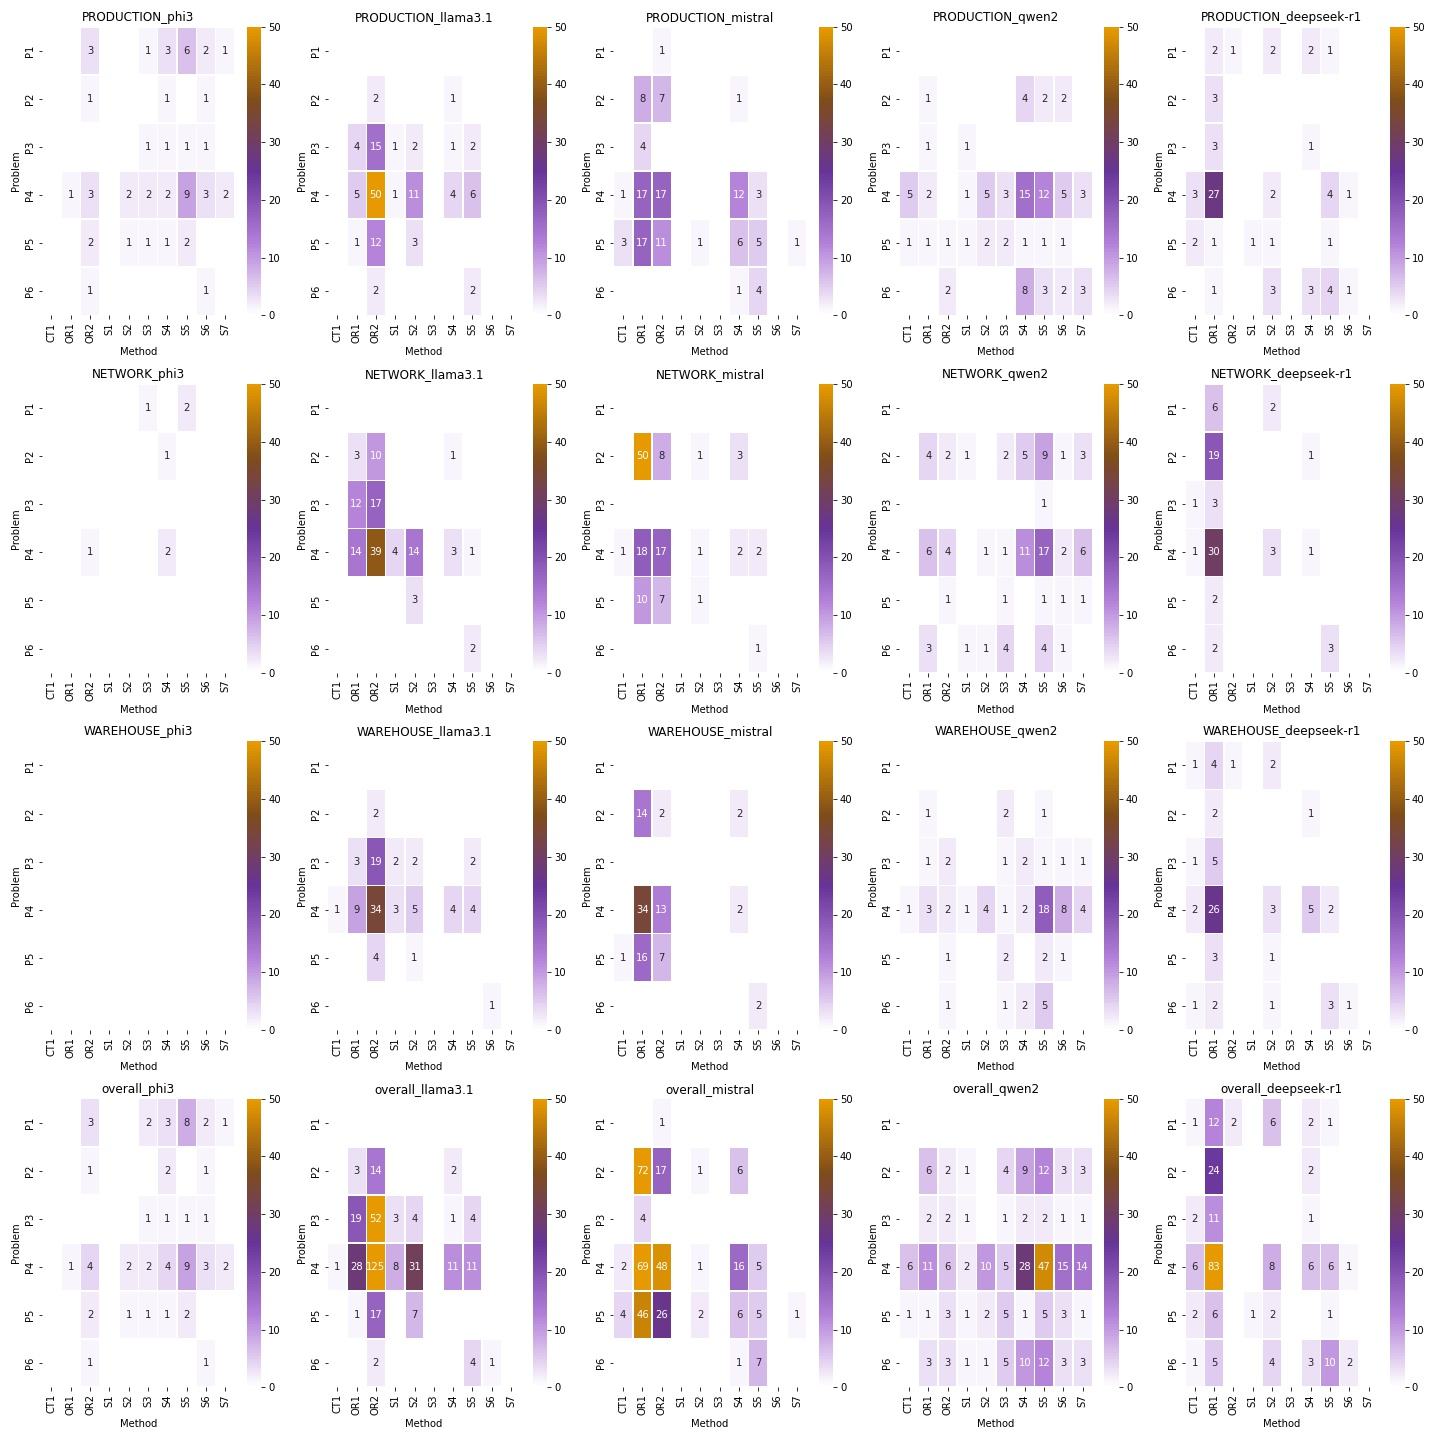
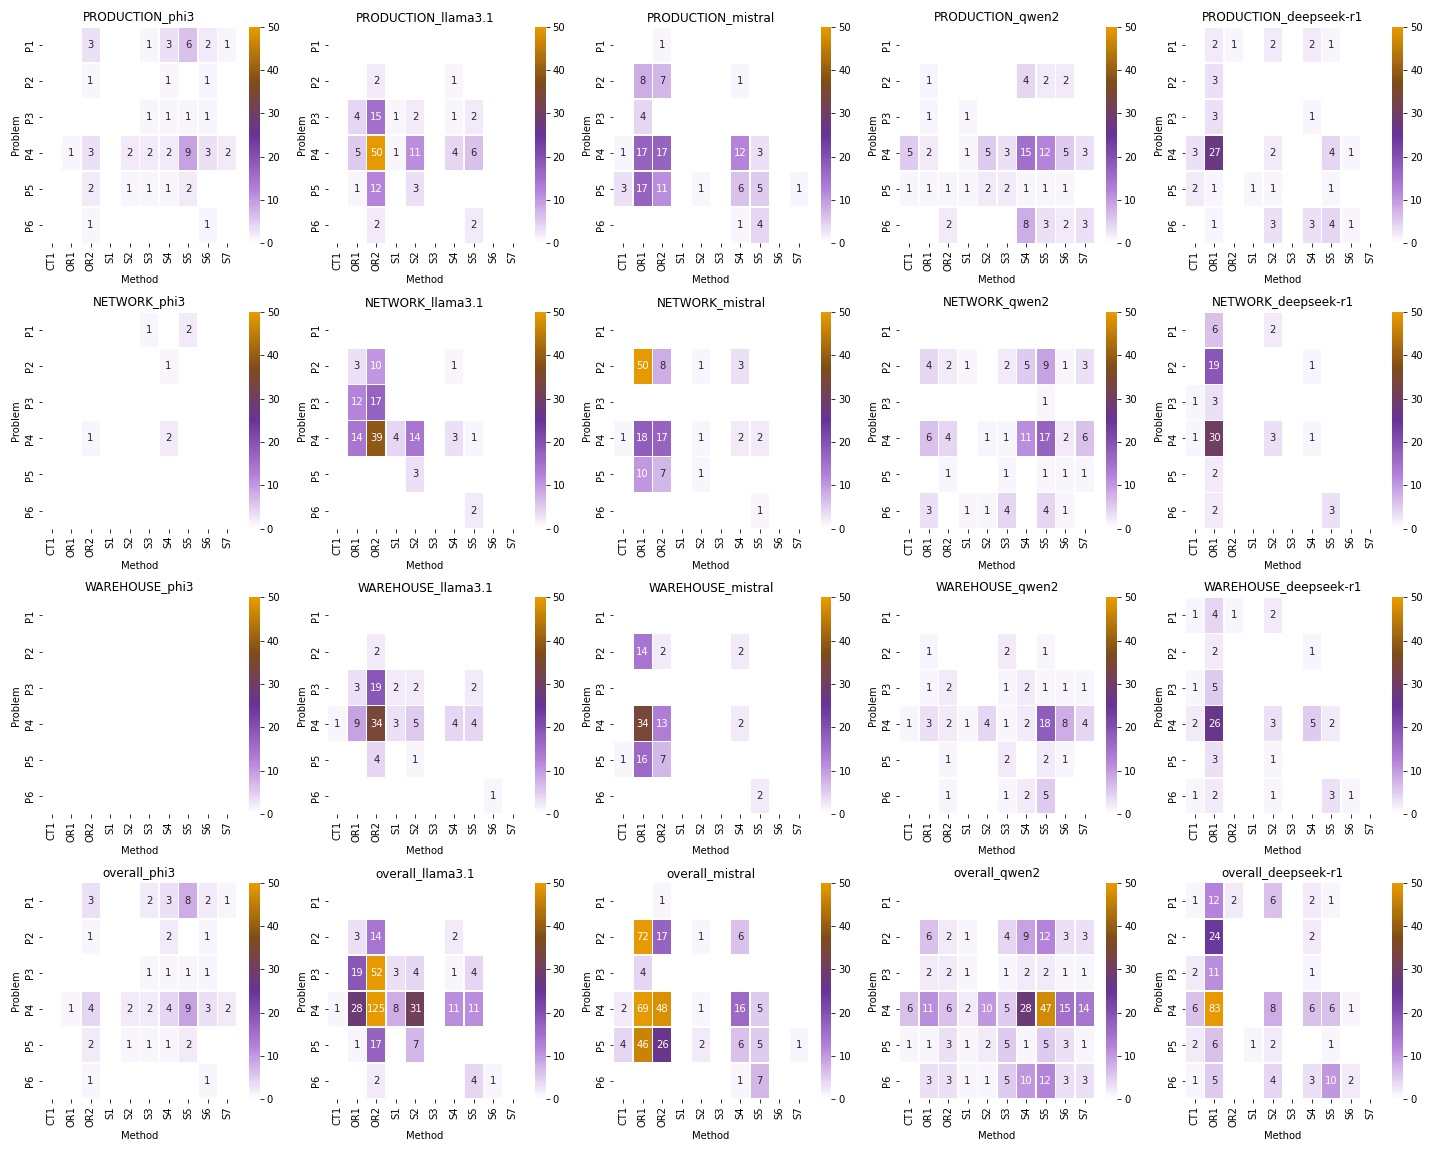
add Analytics Families graph

diff --git a/src/3. analyse_results.py b/src/3. analyse_results.py
@@ -48,7 +48,7 @@ def createHeatmap(D_scs: pd.DataFrame,
 
     # Ordinamento delle righe
     D_scs_square['indiceSorting'] = [D_scs_square.index[i][1:] for i in range(len(D_scs_square))]
-    D_scs_square['indiceSorting'] = D_scs_square['indiceSorting'].astype(float)
+    D_scs_square['indiceSorting'] = D_scs_square['indiceSorting'].astype(str)
     D_scs_square.sort_values(by='indiceSorting', inplace=True)
     D_scs_square.drop(columns=['indiceSorting'], inplace=True)
 
@@ -113,7 +113,7 @@ numLLMs = len(scs) + 1  # Una riga in più per la heatmap "overall"
 numModels = len(dict_column_models)
 
 # Creazione della figura con subplots
-fig, axs = plt.subplots(numLLMs, numModels, figsize=(20, 20))
+fig, axs = plt.subplots(numLLMs, numModels, figsize=(20, 16))
 
 # Se la matrice axs ha una sola colonna, trasformiamola in un array 2D per evitare errori
 if numModels == 1:
@@ -162,57 +162,35 @@ plt.savefig("../data/output/_master_heatmap.jpg")
 plt.show()
 
 
-
-
-# %% Vote and aggregate 
-'''
-# Seleziona le colonne di interesse
-colonne = [
-    'problem_classification_phi3_cleaned',
-    'problem_classification_llama3.1_cleaned',
-    'problem_classification_mistral_cleaned'
-    #,'problem_classification_qwen2_cleaned'
-]
-
-# Unisci tutte le colonne in una "long format" dataframe
-df_long = df_analysis.melt(id_vars=[], value_vars=colonne, var_name='source', value_name='classification')
-
-# Aggiungi un ID riga per mantenere la tracciabilità delle righe originali
-df_long['row_id'] = df_analysis.index
-
-    # Crea la tabella pivot che conta le occorrenze per riga e classificazione
-    df_pivot = df_long.pivot_table(index='row_id', columns='classification', aggfunc='size', fill_value=0)
-
-    # Unisci i risultati della pivot con il dataframe originale, mantenendo l'ordine delle righe
-    df_finale = df.join(df_pivot, on=df.index)
-
-    return df_finale
-
-# Chiamare la funzione con il percorso del file
-file_path = '/path_to_your_file/export_cleaned.xlsx'
-df_modificato = conta_valori_colonne_con_pivot(file_path)
-
-# Visualizzare il dataframe con le nuove colonne
-print(df_modificato.head())
-'''
 # %% create timeline
 
 df_analysis ['Decade'] = df_analysis['Year']//10*10
 
 # correct the column "method" to use the new overall vote column
-def add_unique_columns(df, col1, col2, col3):
-    # Selezioniamo le quattro colonne iniziali
-    colonne_iniziali = df[[col1, col2, col3]]
+def add_unique_columns(df, *columns):
+    """
+    Modifica la funzione per accettare un numero variabile di colonne.
+    Crea nuove colonne per ogni valore unico presente nelle colonne selezionate.
+    
+    :param df: DataFrame di input
+    :param columns: Nomi delle colonne da analizzare
+    :return: DataFrame con nuove colonne per ciascun valore unico
+    """
+    if not columns:
+        raise ValueError("Devi specificare almeno una colonna.")
 
-    # Troviamo tutti i valori unici nelle quattro colonne
-    valori_unici = pd.unique(colonne_iniziali.values.ravel())
+    # Seleziona le colonne specificate
+    colonne_selezionate = df[list(columns)]
 
-    # Per ogni valore unico, creiamo una nuova colonna nel dataframe
+    # Trova tutti i valori unici nelle colonne selezionate
+    valori_unici = pd.unique(colonne_selezionate.values.ravel())
+
+    # Crea una nuova colonna per ogni valore unico
     for valore in valori_unici:
-        # La nuova colonna contiene il conteggio di quante volte il valore appare in ogni riga
-        df[valore] = colonne_iniziali.apply(lambda row: (row == valore).sum(), axis=1)
+        df[valore] = colonne_selezionate.apply(lambda row: (row == valore).sum(), axis=1)
 
     return df
+
 
 def max_score_columns_tiebreak_custom(df, columns_to_consider, new_column_name):
     """
@@ -234,20 +212,19 @@ def max_score_columns_tiebreak_custom(df, columns_to_consider, new_column_name):
 
     return df
 
-df_analysis = add_unique_columns(df_analysis, 'problem_classification_phi3_cleaned',
-                                                      'problem_classification_llama3.1_cleaned',
-                                                      'problem_classification_mistral_cleaned'
-                                                      #,'problem_classification_qwen2_cleaned'
+df_analysis = add_unique_columns(df_analysis, 
+                                 'problem_classification_qwen2_cleaned',
+                                 'problem_classification_deepseek-r1:7b_cleaned'
+                                 
                                                       )
 
 df_analysis = max_score_columns_tiebreak_custom(df=df_analysis,
                                                 columns_to_consider=listProblems,
                                                 new_column_name='problem_overall')
 
-df_analysis = add_unique_columns(df_analysis, 'method_classification_phi3_cleaned',
-                                              'method_classification_llama3.1_cleaned',
-                                              'method_classification_mistral_cleaned'
-                                              #,'method_classification_qwen2_cleaned'
+df_analysis = add_unique_columns(df_analysis,
+                                 'method_classification_qwen2_cleaned',
+                                 'method_classification_deepseek-r1:7b_cleaned'
                                               )
 
 df_analysis = max_score_columns_tiebreak_custom(df=df_analysis,
@@ -325,4 +302,90 @@ plt.figure()
 sns.heatmap(D_years_square, linewidths=.5,annot=True,cmap="YlOrRd", fmt='g')
 plt.title("Transition of the methods implementation over the time")
 plt.savefig(f"../data/output/_time_transition.jpg") 
+
+# %%
+
+# %% Create graphs Analytics Families
+# Dizionario aggiornato per il nuovo mapping
+analytics_family_columns = {
+    "phi3": {
+        "methods_columns": "method_classification_phi3_cleaned",
+        "analytics_columns": "method_classification_phi3_AnalyticsFamily"
+    },
+    "llama3.1": {
+        "methods_columns": "method_classification_llama3.1_cleaned",
+        "analytics_columns": "method_classification_llama3.1_AnalyticsFamily"
+    },
+    "mistral": {
+        "methods_columns": "method_classification_mistral_cleaned",
+        "analytics_columns": "method_classification_mistral_AnalyticsFamily"
+    },
+    "qwen2": {
+        "methods_columns": "method_classification_qwen2_cleaned",
+        "analytics_columns": "method_classification_qwen2_AnalyticsFamily"
+    },
+    "deepseek-r1": {
+        "methods_columns": "method_classification_deepseek-r1:7b_cleaned",
+        "analytics_columns": "method_classification_deepseek-r1:7b_AnalyticsFamily"
+    }
+}
+
+# Lista delle famiglie di metodi
+listAnalytics = ["DESCRIPTIVE", "PREDICTIVE", "PRESCRIPTIVE"]
+
+# Creazione del nuovo DataFrame con solo le colonne utili
+columns_analysis = [
+    'Year',
+    'method_classification_phi3_cleaned',
+    'method_classification_llama3.1_cleaned',
+    'method_classification_mistral_cleaned',
+    'method_classification_qwen2_cleaned',
+    'method_classification_deepseek-r1:7b_cleaned',
+    'method_classification_phi3_AnalyticsFamily',
+    'method_classification_llama3.1_AnalyticsFamily',
+    'method_classification_mistral_AnalyticsFamily',
+    'method_classification_qwen2_AnalyticsFamily',
+    'method_classification_deepseek-r1:7b_AnalyticsFamily',
+    'Supply chain System'
+]
+df_analysis2 = df_cleaned[columns_analysis]
+
+# Creazione dei nuovi heatmap
+fig, axs = plt.subplots(numLLMs, len(analytics_family_columns), figsize=(20, 16))
+if len(analytics_family_columns) == 1:
+    axs = axs[:, None]  # Evita errori con un solo modello
+
+for i_column, model in enumerate(analytics_family_columns.keys()):
+    for i_row, supply_chain_system in enumerate(scs):
+        df_filtered = df_analysis2[df_analysis2["Supply chain System"] == supply_chain_system]
+        title = f"{supply_chain_system}_{model}_AnalyticsFamily"
+        ax = axs[i_row, i_column]
+        createHeatmap(df_filtered,
+                      title=title,
+                      column_problem=analytics_family_columns[model]["methods_columns"],
+                      column_method=analytics_family_columns[model]["analytics_columns"],
+                      listProblems=listMethods,  # Qui listMethods rappresenta i metodi originali
+                      listMethods=listAnalytics,
+                      ax=ax)
+        if i_column == 0:
+            ax.set_ylabel("Method")
+    
+    # Heatmap complessiva senza filtro "Supply chain System"
+    title = f"overall_{model}_AnalyticsFamily"
+    ax = axs[numLLMs - 1, i_column]
+    createHeatmap(df_analysis2,
+                  title=title,
+                  column_problem=analytics_family_columns[model]["methods_columns"],
+                  column_method=analytics_family_columns[model]["analytics_columns"],
+                  listProblems=listMethods,
+                  listMethods=listAnalytics,
+                  ax=ax)
+    if i_column == 0:
+        ax.set_ylabel("Method")
+    ax.set_xlabel("Analytics Family")
+
+plt.tight_layout()
+plt.savefig("../data/output/_method_analytics_family_heatmap.jpg")
+plt.show()
+
 # %%
